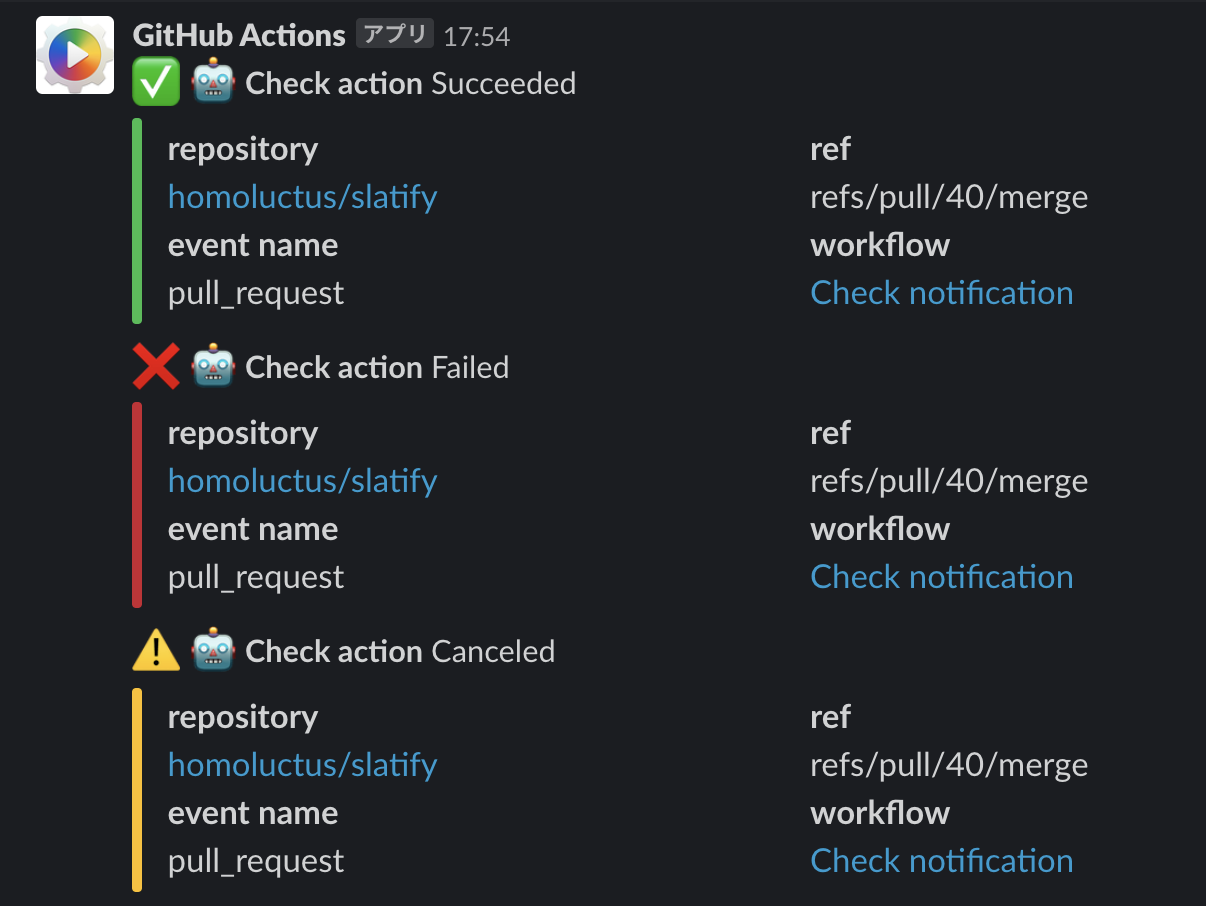
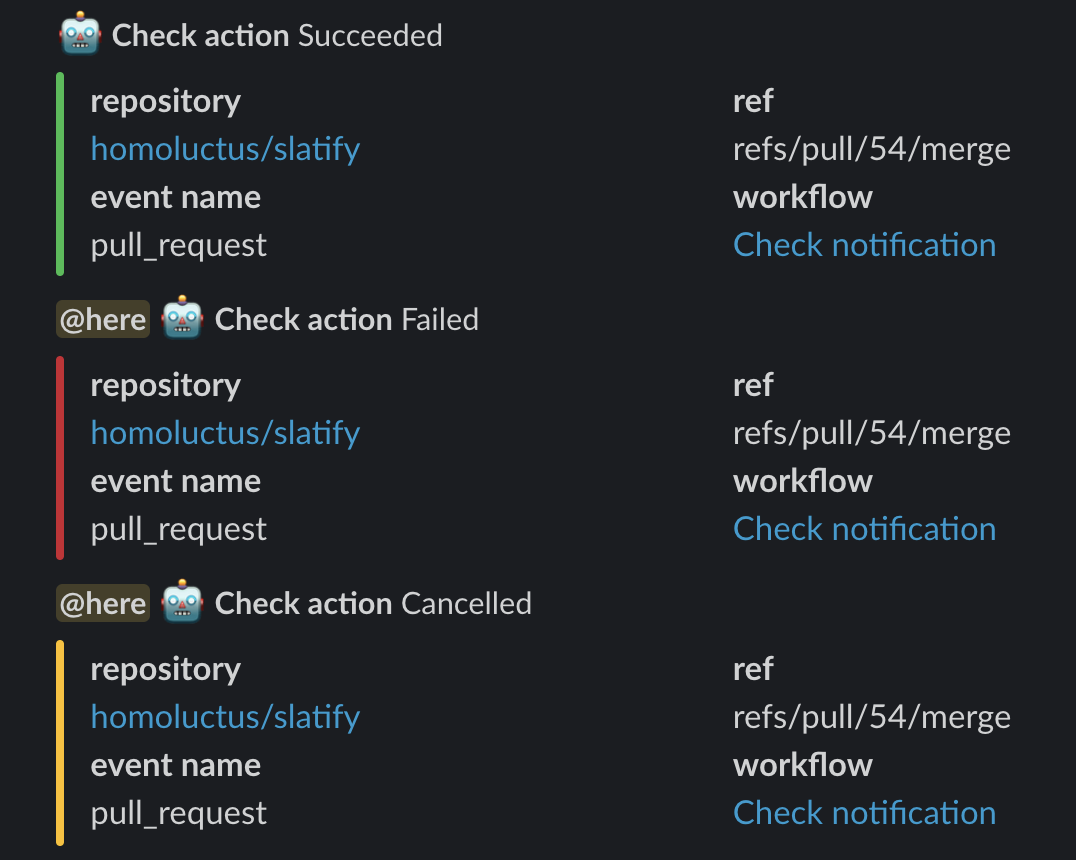
[readme] Change image to new one

diff --git a/README.md b/README.md
@@ -53,10 +53,6 @@ Please refer `action.yml` for more details.
 
 <img src="./images/slack.png" alt="Notification Preview" width="70%">
 
-## Preview
-
-<img src="./images/preview.png" alt="Notification Preview" width="70%">
-
 # Contribute
 1. Fork this repository
 2. Pull your repository in local machine
